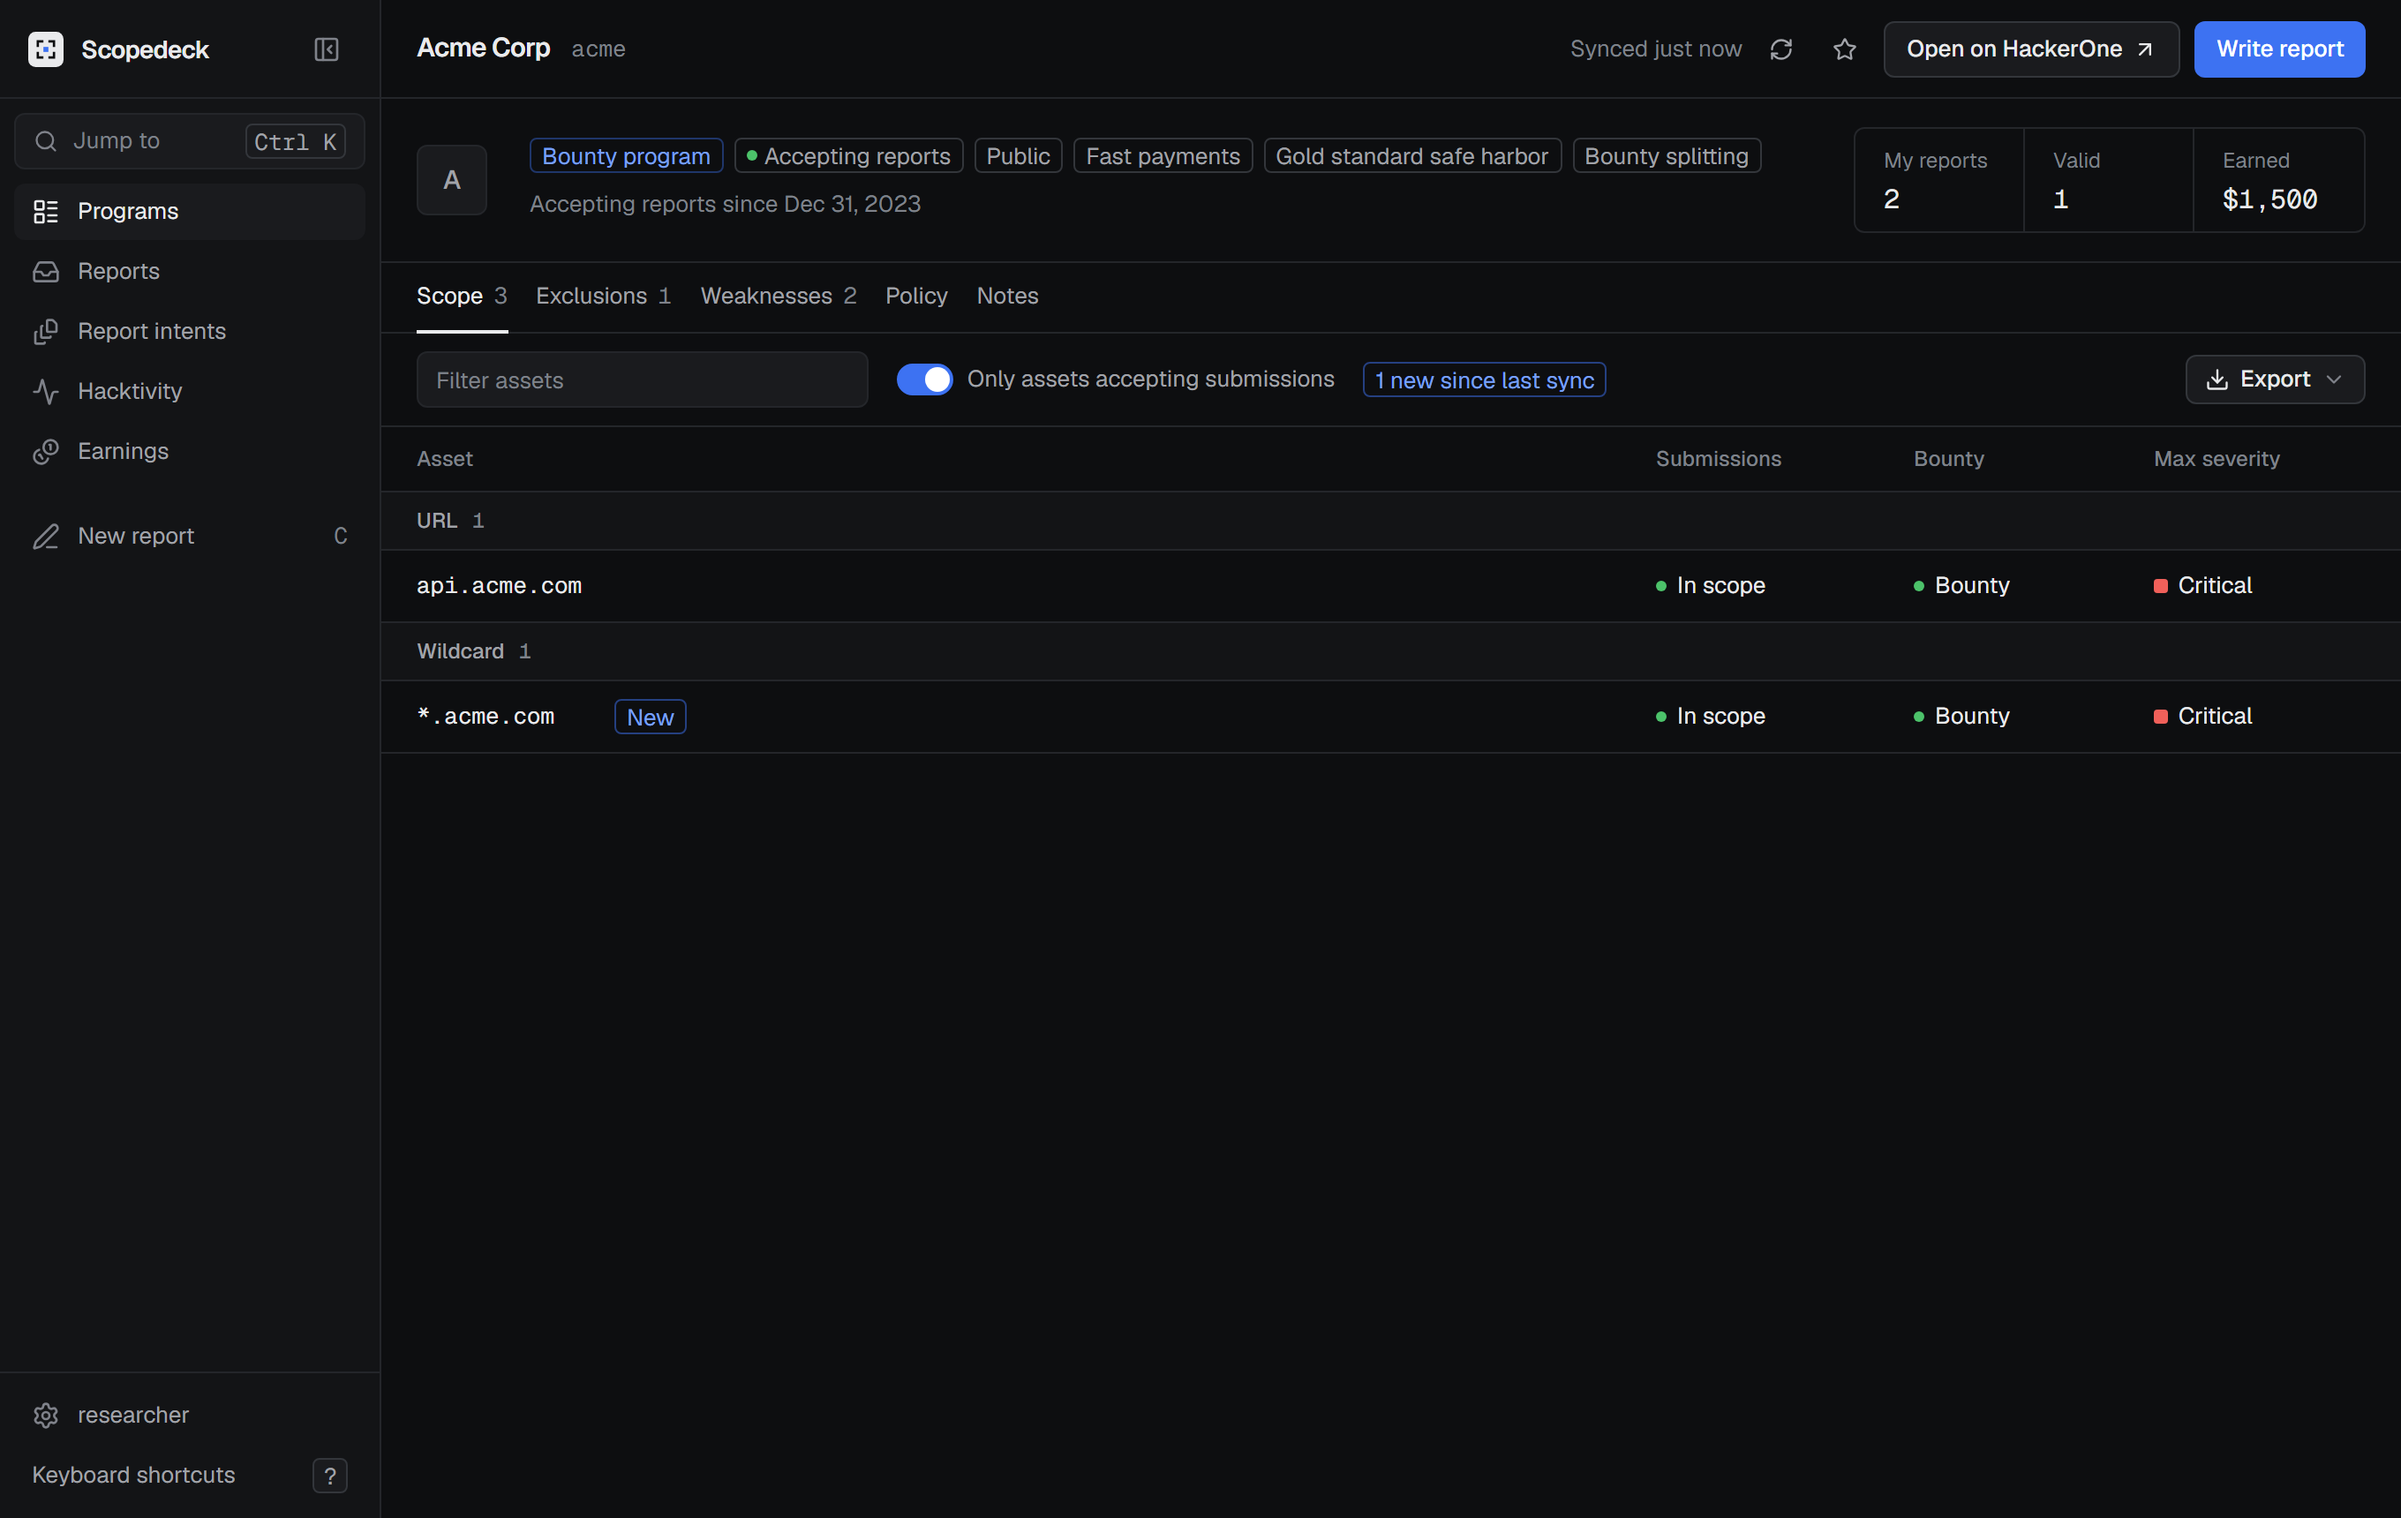
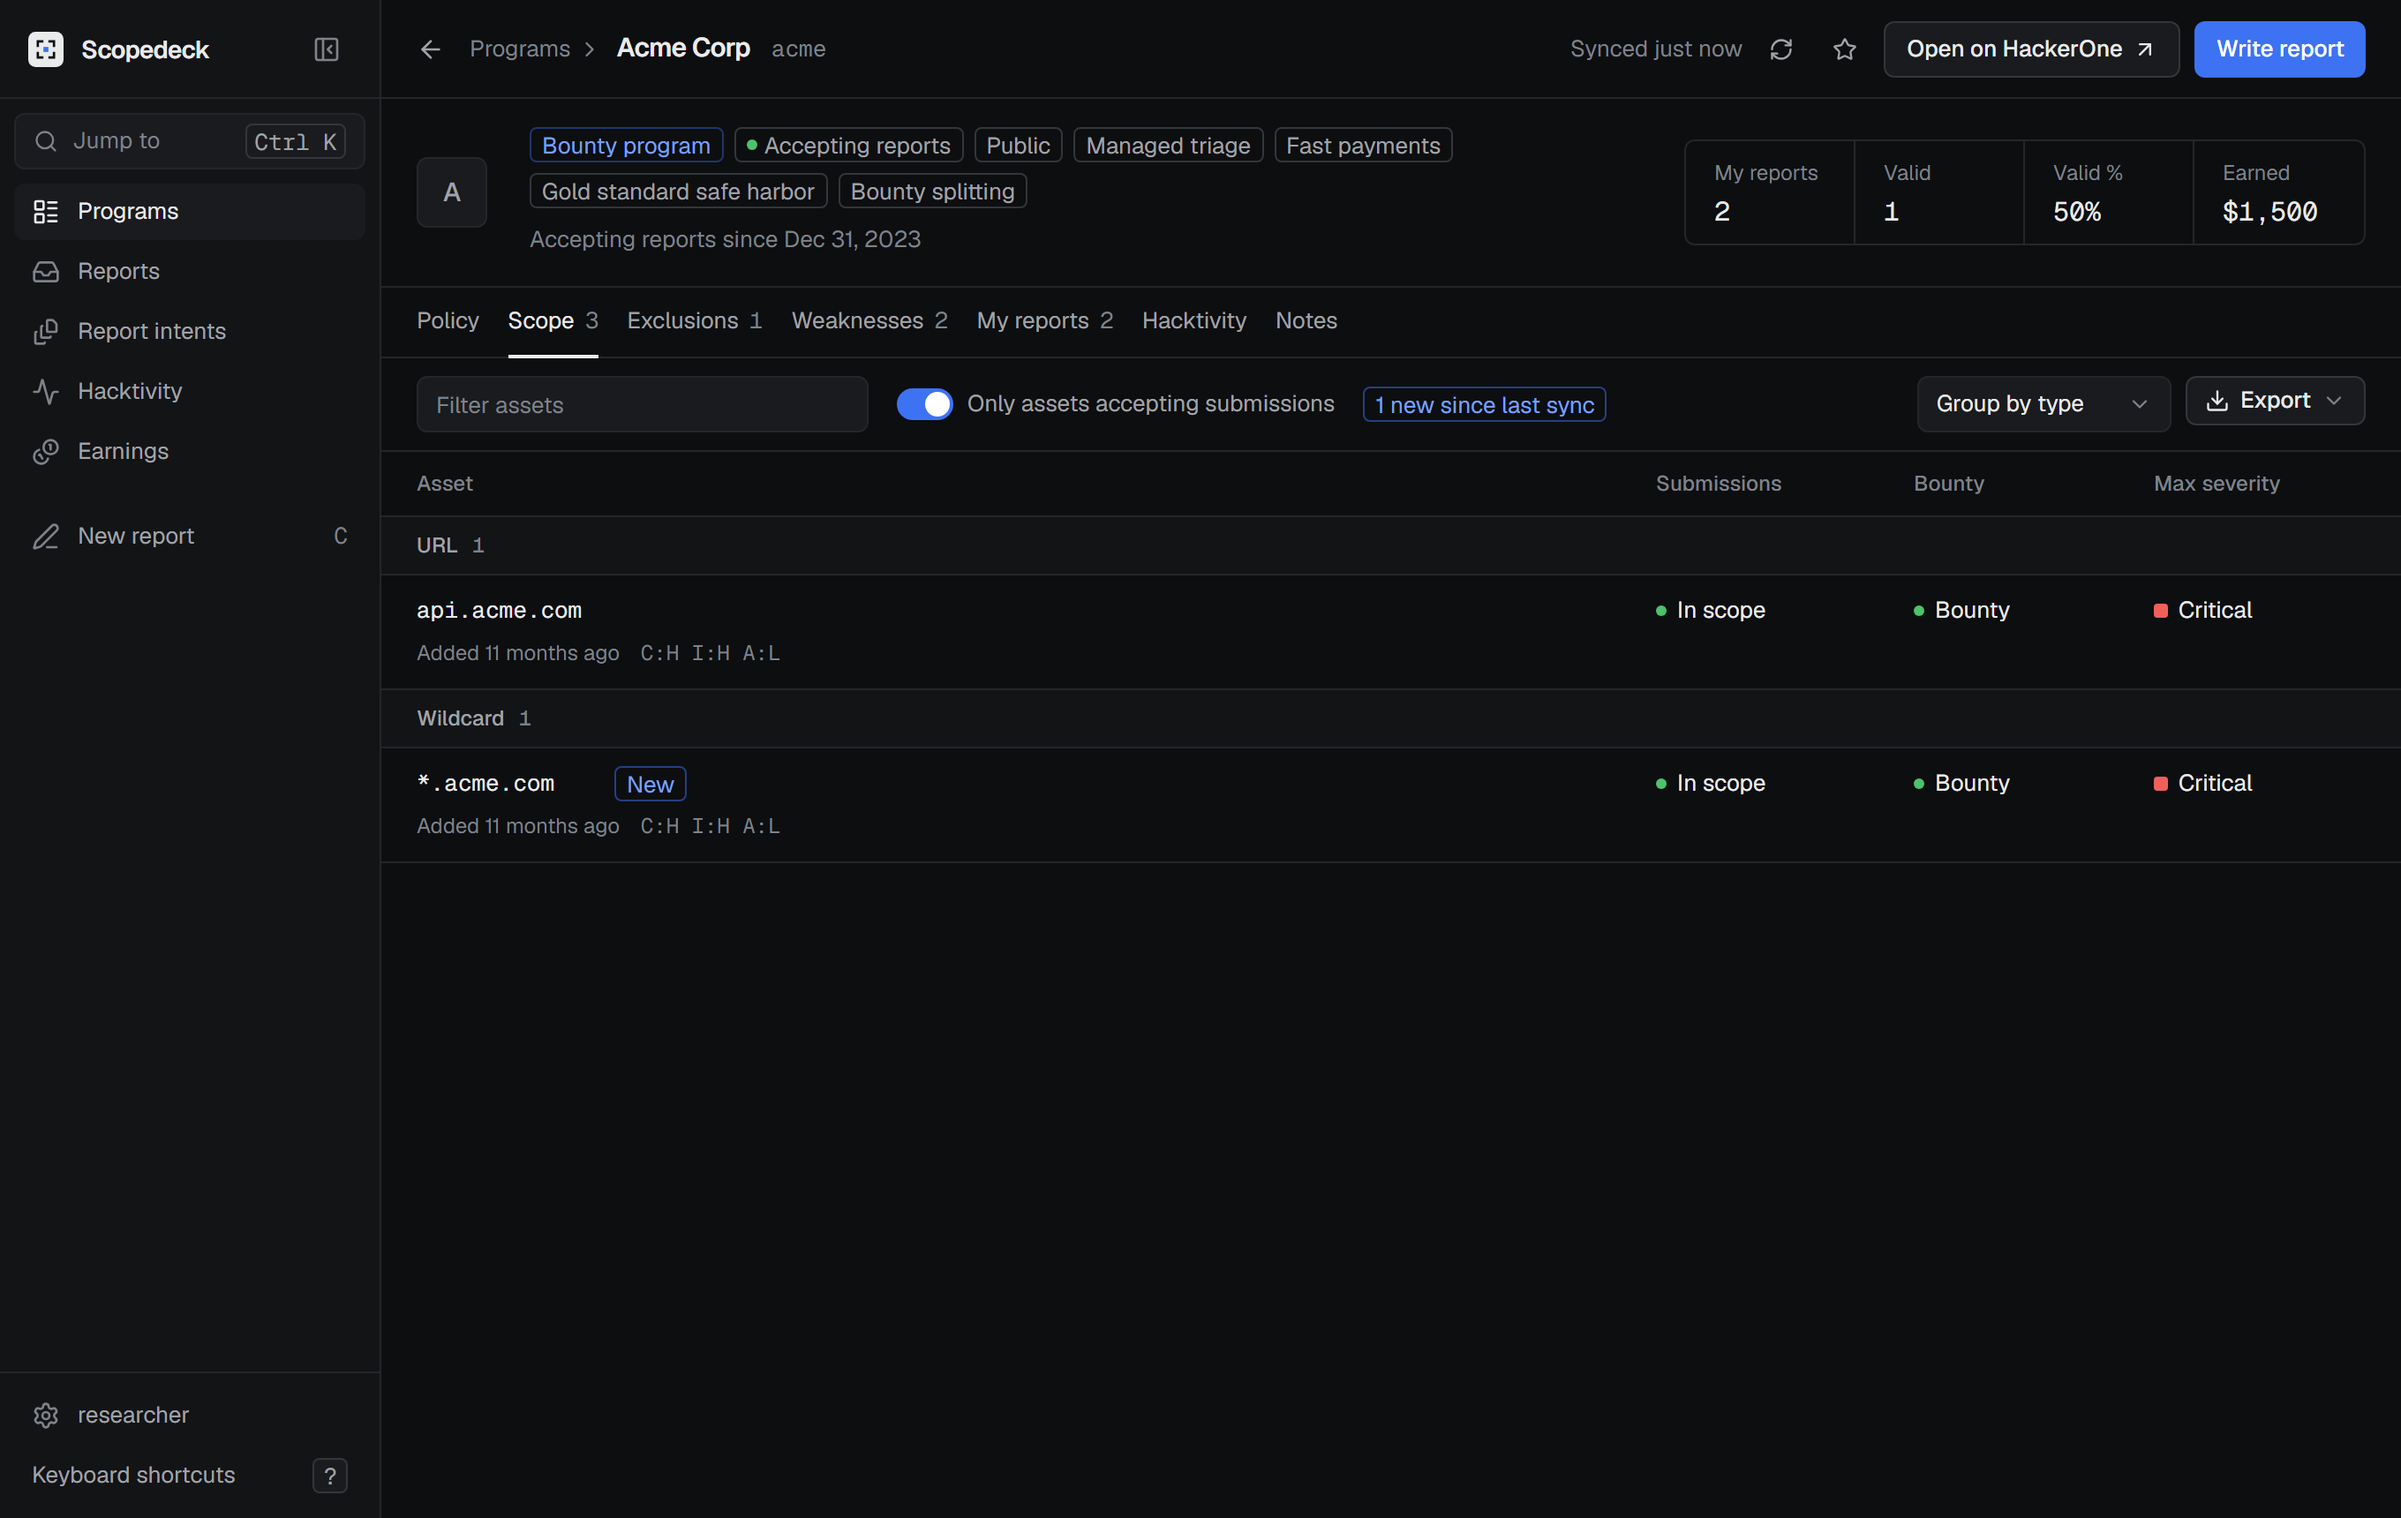
chore: release 0.1.3
Retakes the screenshots with demo data and public programs only.

diff --git a/e2e/screenshots.ts b/e2e/screenshots.ts
@@ -91,6 +91,7 @@ await page
 await page.getByText("Northwind Traders").first().waitFor();
 
 await go(page, "#/programs/acme");
+await page.getByRole("tab", { name: /Scope/ }).click();
 await page.getByText("api.acme.com").waitFor();
 await settle(page);
 await page.screenshot({ path: `${out}/program.png` });

diff --git a/README.md b/README.md
@@ -15,7 +15,9 @@ earnings, and search Hacktivity, all from one window.
 - **Programs.** Full-text search across every program and asset you can access, pinned
   programs, and a "new" badge on scope that changed since your last sync. Export scope for your
   tools: hosts, wildcards, URLs, CIDR ranges, a Burp Suite scope file or a Nuclei target list.
-  Private, local-only notes per program.
+  Each program page opens on its policy and has tabs for scope (with added dates and CIA
+  requirements), exclusions, weaknesses, your reports there, its disclosed Hacktivity, and private,
+  local-only notes.
 - **Composer.** A guided flow from target to submission: a step rail that shows what is left, a
   draft quality score with concrete hints, a CVSS 3.1 calculator that sets the severity and
   records the vector, and per-weakness starter templates. Write in a split Markdown editor with
@@ -31,8 +33,9 @@ earnings, and search Hacktivity, all from one window.
 - **Report intents.** For programs that support them, submit through an intent and watch it
   move from pending to ready.
 - **Reports.** An inbox with cards, a list or a board by state, a "needs your attention" filter
-  for reports waiting on you, the full activity timeline, and opt-in desktop notifications.
-- **Hacktivity.** A query builder that compiles to the API's Lucene syntax, a raw query mode,
+  for reports waiting on you, the full activity timeline, response and triage times, the CVSS
+  vector, top-paid disclosures for the same weakness, and opt-in desktop notifications.
+- **Hacktivity.** Report summaries and time to disclosure in a details panel, a query builder that compiles to the API's Lucene syntax, a raw query mode,
   saved searches and infinite scroll.
 - **Earnings.** Balance, year to date against last year, average and largest bounty, monthly
   totals, breakdowns by program and type, and CSV export.
@@ -86,6 +89,12 @@ Download the installer for your platform from the
 
 Releases are signed. **Settings → Check for updates** fetches the release manifest, and an
 update installs only when you confirm it and its signature verifies.
+
+On Windows, Setup installs for your account only, so it needs no administrator rights. Running it
+again updates or reinstalls in place and keeps your sign-in, drafts and settings; an MSI install
+from 0.1.2 or earlier is removed and replaced. To uninstall, use **Settings → Apps**. Your data is
+kept unless you tick **Also remove my data**, which also deletes the API token and AI key from
+Windows Credential Manager. Scripted installs can use `/S` (silent) and `/P` (passive).
 
 ### Connect your account
 

diff --git a/docs/releases/v0.1.3.md b/docs/releases/v0.1.3.md
@@ -1,0 +1,34 @@
+A custom Windows installer and uninstaller, and far more detail on every page.
+
+![Report](https://raw.githubusercontent.com/BankkRoll/scopedeck/main/docs/screenshots/report.png)
+
+## New
+
+- **Windows Setup, redesigned.** One page that installs, updates or reinstalls in place, with the location and a desktop shortcut choice, then a finish page with Launch Scopedeck. It installs for your account only, so it needs no administrator rights. An MSI install from 0.1.2 or earlier is removed and replaced automatically.
+- **A real uninstaller.** Says exactly what it removes. Your data is kept unless you tick **Also remove my data**, which also deletes the API token and AI key from Windows Credential Manager.
+- **Back arrows and breadcrumbs** on program and report pages.
+- **Report pages**: the program's logo and name, state, severity, bounty, time to first response and time to triage up top; avatars and Internal markers in the timeline; the CVSS vector; awarded amounts in your payout currency; and top-paid disclosures for the same weakness.
+- **Program pages** open on the policy, and gain **My reports** and **Hacktivity** tabs, managed triage and join date, valid-report rate, scope added dates and CIA requirements, and weakness descriptions.
+- **Hacktivity**: a details panel with the report summary, what happened last and time to disclosure; program names link inside the app.
+- **Reports list**: an "Awaiting you" marker. **Report intents** show the program logo.
+- **Composer** warns when the severity is above the asset's cap.
+
+## Changed
+
+- Windows releases ship as a single `.exe` installer; the `.msi` is gone.
+
+## Install
+
+| Platform                        | Download                        |
+| ------------------------------- | ------------------------------- |
+| Windows                         | `Scopedeck_0.1.3_x64-setup.exe` |
+| macOS (Apple silicon and Intel) | `Scopedeck_0.1.3_universal.dmg` |
+| Linux                           | `.AppImage`, `.deb` or `.rpm`   |
+
+Already installed? Use **Settings → Check for updates**.
+
+> Installers are not yet signed with Apple or Microsoft certificates, so macOS Gatekeeper and Windows SmartScreen will warn on first launch. Updates are signed and verified.
+
+---
+
+Not affiliated with HackerOne.
